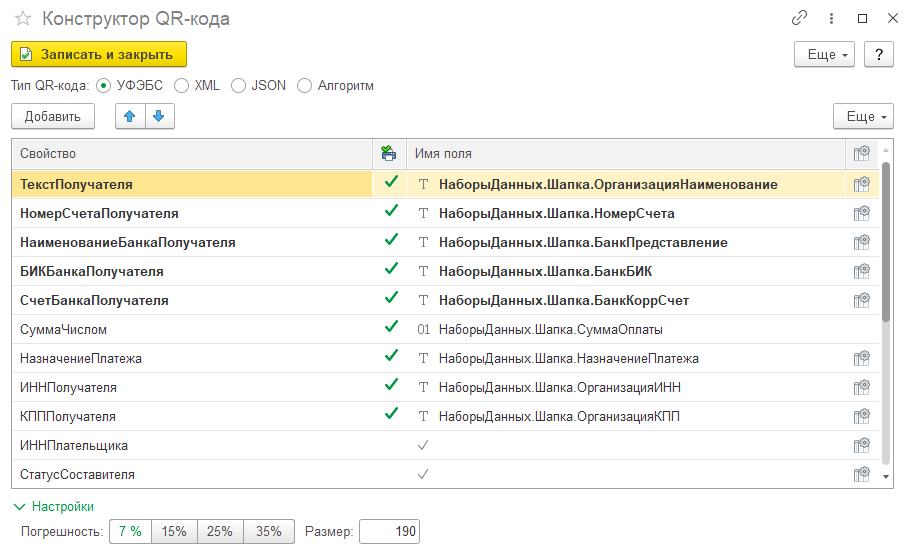
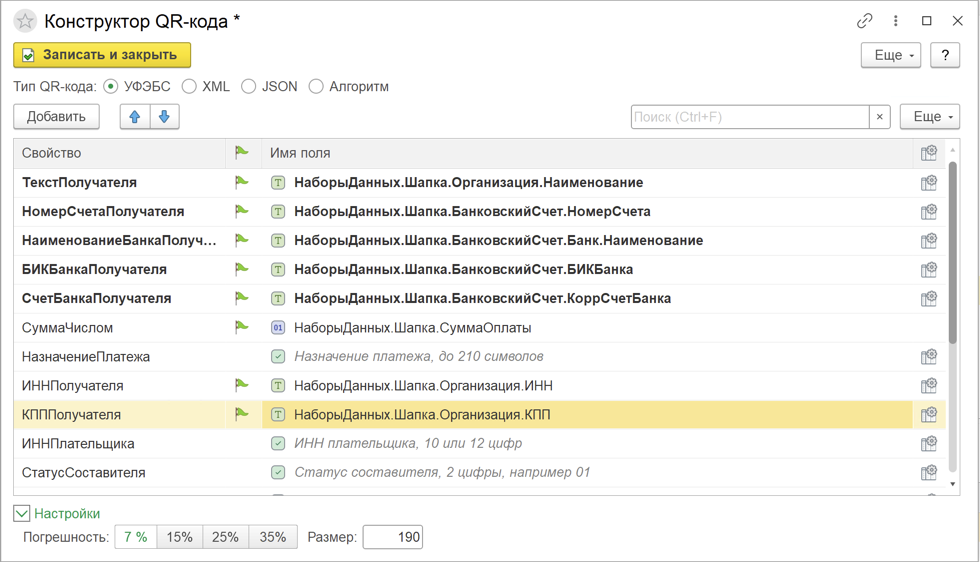
Снимок конструктора QR-кода в начале главы
Первый кадр главы «QR-код» показывал конструктор до 2026.4: колонку
«Это поле печати» с галочками и плоские пути вида
Шапка.ОрганизацияНаименование. Новый кадр - тип «УФЭБС» с заполненными
полями и зелёными флагами, пустые необязательные строки с подсказкой,
раскрытые «Настройки» (погрешность и размер). Подпись описывает кадр.

Описание к vandalsvq/printwizard#451

Changed region(s): [[0.0, 0.0, 1.0, 1.0], [0.2769, 0.8285, 0.6154, 0.8592]]

diff --git a/src/content/docs/guide/ch-02-21.md b/src/content/docs/guide/ch-02-21.md
@@ -24,7 +24,7 @@ QR-код выводится в печатную форму картинкой: 
 
 ![](/img/ch_02/71_qr_main.png)
     
-Настройка формирования QR-кода
+Конструктор QR-кода, тип «УФЭБС»: сверху — тип кода, в таблице — свойства и поля наборов, внизу — настройки погрешности и размера
 
 Существует 4 типа способа формирования QR-кода
 
